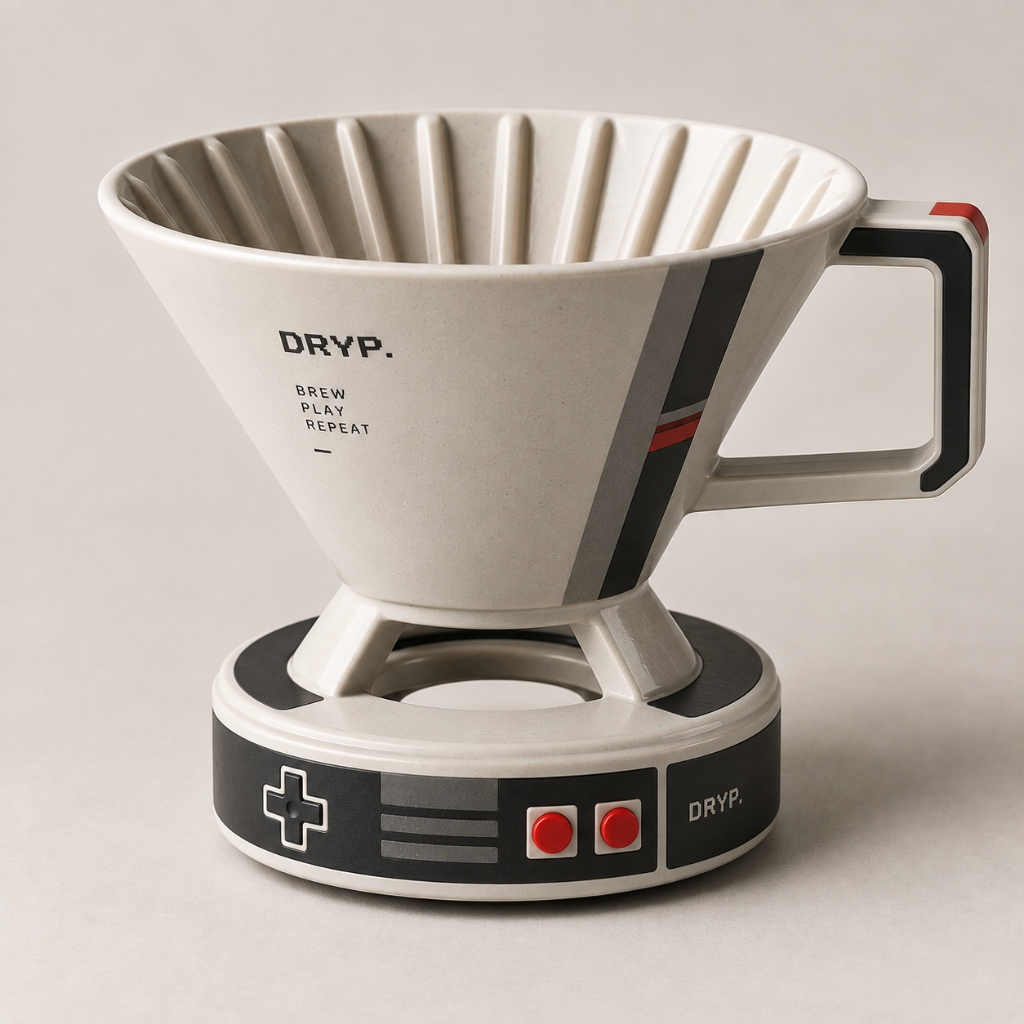
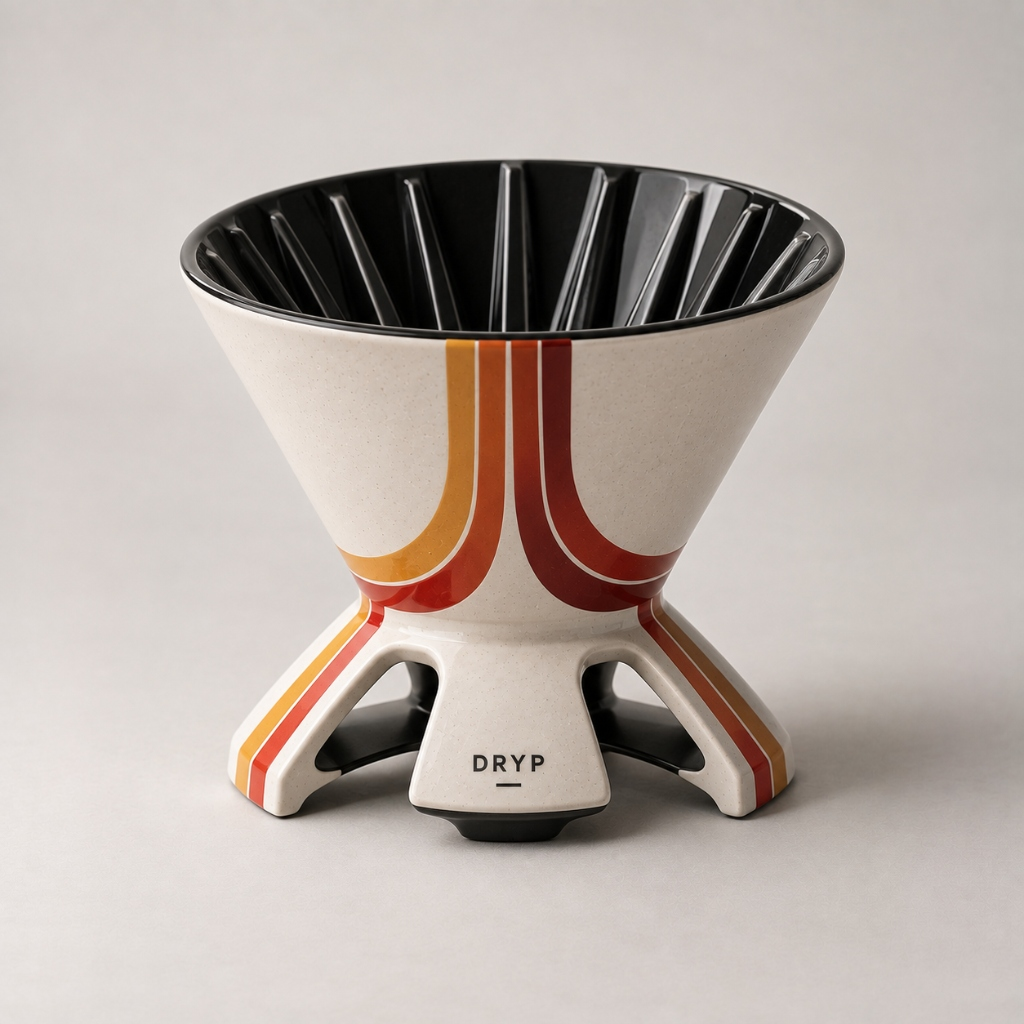
fix: replace NES dripper with Retro Sunset Arcade dripper

diff --git a/dripper-app/src/i18n/localizedData.ts b/dripper-app/src/i18n/localizedData.ts
@@ -1001,26 +1001,27 @@ export const LOCALIZED_PRODUCTS: Record<Language, Product[]> = {
       categoryTag: 'Editions',
       dropCode: 'RETRO 02',
       eyebrow: 'RETRO 02',
-      name: 'NES — Brew Play Repeat',
-      headline: 'Saturday morning, 1988: coffee brewing, cartridge loaded, the world on pause.',
-      story: 'Smoke-white stoneware cone with an angular handle inspired by the classic 8-bit gamepad. D-pad and A/B button motifs fired in deep charcoal and red on the base ring.',
-      objectDescription: 'High-fire ceramic with matte smoke-white glaze and precision-painted gaming iconography. The angular handle echoes the geometric grammar of 1980s console design.',
+      name: 'Retro Sunset Arcade',
+      headline: 'Golden hour warmth from the analog arcade era.',
+      story: 'Speckled cream stoneware dripper decorated with sweeping retro sunset curved stripes in yellow ochre, warm amber orange, and deep burnt terracotta. Contrasted with a deep gloss black interior and an arched tripod pedestal stamped with DRYP.',
+      objectDescription: 'The glossy black interior ribs ensure effortless, channel-free drawdown, while the thick ceramic walls provide stellar heat stability for sweet, full-bodied morning extractions.',
       price: 92,
       currency: 'USD',
       stockStatus: 'available',
-      stockLabel: 'Available • 8-bit Edition',
+      stockLabel: 'Available • Sunset Edition',
       stockCountRemaining: 28,
       paletteColors: [
-        { name: 'Smoke White', hex: '#E8E5E0' },
-        { name: 'Charcoal 8-bit', hex: '#2D2D2D' },
-        { name: 'A-Button Red', hex: '#CC2929' }
+        { name: 'Speckled Oatmeal Cream', hex: '#EAE5D9' },
+        { name: 'Sunset Amber & Ochre', hex: '#D97706' },
+        { name: 'Burnt Terracotta', hex: '#9C3D24' },
+        { name: 'Gloss Obsidian Black', hex: '#161616' }
       ],
       specs: {
         extractionStyle: 'Clean, structured body with bright acidity and a long finish',
         flowRate: 'Medium-fast single pour',
         capacity: '1–2 Cups (14g–28g dose)',
         filterType: 'Standard 02 Conical filters',
-        material: 'High-fire stoneware with ceramic glaze detailing',
+        material: 'High-fire speckled stoneware with gloss interior and ceramic stripe glazes',
         origin: 'Retro Lab • Cumbres de Neblaria',
         weight: '360g',
         idealRecipe: {
@@ -1032,7 +1033,7 @@ export const LOCALIZED_PRODUCTS: Record<Language, Product[]> = {
           grindSize: 'Medium'
         }
       },
-      tagline: 'Brew Play Repeat.',
+      tagline: 'Warm sunsets, slow mornings, deliberate coffee.',
       visualType: 'core'
     },
     {
@@ -2105,26 +2106,27 @@ export const LOCALIZED_PRODUCTS: Record<Language, Product[]> = {
       categoryTag: 'Editions',
       dropCode: 'RETRO 02',
       eyebrow: 'RETRO 02',
-      name: 'NES — Brew Play Repeat',
-      headline: 'El sábado por la mañana de 1988: cafetera encendida, cartucho insertado, el día empieza en pausa.',
-      story: 'Cono de gres blanco humo con asa angular inspirada en el gamepad de 8 bits clásico. Iconografía de cruceta y botones A/B horneada en carbón profundo y rojo sobre el anillo de base.',
-      objectDescription: 'Cerámica de alta temperatura con esmalte blanco humo mate e iconografía gamer pintada con precisión. El asa angular refleja la gramática geométrica del diseño de consolas de los años ochenta.',
+      name: 'Retro Sunset Arcade',
+      headline: 'La calidez de la hora dorada nacida en la era de los arcades analógicos.',
+      story: 'Gotero cerámico de gres crema moteado decorado con franjas curvadas al estilo atardecer setentero en ocre, ámbar cálido y terracota quemado. Contrasta con un interior esmaltado en negro brillante y una base trípode arqueada con el sello DRYP.',
+      objectDescription: 'Las nervaduras interiores en negro brillante aseguran un paso de agua fluido y libre de canalizaciones, mientras que las paredes gruesas de gres ofrecen una gran estabilidad térmica para extracciones dulces y con cuerpo redondo.',
       price: 92,
       currency: 'USD',
       stockStatus: 'available',
-      stockLabel: 'Disponible • Edición 8-bit',
+      stockLabel: 'Disponible • Edición Sunset',
       stockCountRemaining: 28,
       paletteColors: [
-        { name: 'Blanco Humo', hex: '#E8E5E0' },
-        { name: 'Carbón 8-bit', hex: '#2D2D2D' },
-        { name: 'Rojo Botón A', hex: '#CC2929' }
+        { name: 'Crema Avena Moteada', hex: '#EAE5D9' },
+        { name: 'Ámbar & Ocre Sunset', hex: '#D97706' },
+        { name: 'Terracota Tostado', hex: '#9C3D24' },
+        { name: 'Negro Obsidiana Brillante', hex: '#161616' }
       ],
       specs: {
         extractionStyle: 'Cuerpo limpio y estructurado, acidez brillante y final largo',
         flowRate: 'Medio-rápido, vertido único',
         capacity: '1–2 Tazas (dosis 14g–28g)',
         filterType: 'Filtros cónicos estándar 02',
-        material: 'Gres de alta temperatura con detallado en esmalte cerámico',
+        material: 'Gres de alta temperatura con interior esmaltado brillante y franjas cerámicas',
         origin: 'Retro Lab • Cumbres de Neblaria',
         weight: '360g',
         idealRecipe: {
@@ -2136,7 +2138,7 @@ export const LOCALIZED_PRODUCTS: Record<Language, Product[]> = {
           grindSize: 'Media'
         }
       },
-      tagline: 'Brew Play Repeat.',
+      tagline: 'Atardeceres cálidos, mañanas lentas, café consciente.',
       visualType: 'core'
     },
     {

diff --git a/dripper-app/src/data/pinterestPinsData.ts b/dripper-app/src/data/pinterestPinsData.ts
@@ -487,8 +487,8 @@ export const DRYP_DRIPS: DrypDrip[] = [
   {
     id: 'drip-retro-nes',
     productId: 'retro-nes-8bit',
-    title: '20 / NES — Brew Play Repeat',
-    subtitle: 'Gres blanco humo con asa angular inspirada en el gamepad de 8 bits. El vertido más icónico de tu infancia.',
+    title: '20 / Retro Sunset Arcade',
+    subtitle: 'Gres crema moteado con bandas curvadas en ocre, naranja y terracota, interior negro brillante y base trípode arqueada con sello DRYP.',
     category: 'Retro',
     categoryLabel: 'Retro',
     imageSrc: '/images/products/retro-nes.jpg',
@@ -501,14 +501,14 @@ export const DRYP_DRIPS: DrypDrip[] = [
     },
     price: 92,
     stockStatus: 'available',
-    stockLabel: 'Disponible (Edición 8-bit)',
-    likesCount: 3840,
-    savesCount: 7210,
+    stockLabel: 'Disponible (Edición Sunset)',
+    likesCount: 4210,
+    savesCount: 8940,
     boardIds: ['board-retro'],
-    tags: ['Retro', 'Vintage', '8-bit', 'Gaming', 'NES', 'Pixel', 'Arcade', 'Consola'],
-    badge: 'RETRO 8-BIT',
+    tags: ['Retro', 'Vintage', '70s', '80s', 'Sunset Stripes', 'Arcade', 'Gres Moteado', 'Rayas'],
+    badge: 'RETRO SUNSET',
     dropCode: 'RETRO 02',
-    level01Emotion: 'El sábado por la mañana de 1988: cafetera encendida, cartucho insertado, el día empieza en pausa.'
+    level01Emotion: 'La energía solar de los atardeceres analógicos: líneas cálidas que abrazan la geometría de cada vertido.'
   },
 
   {
